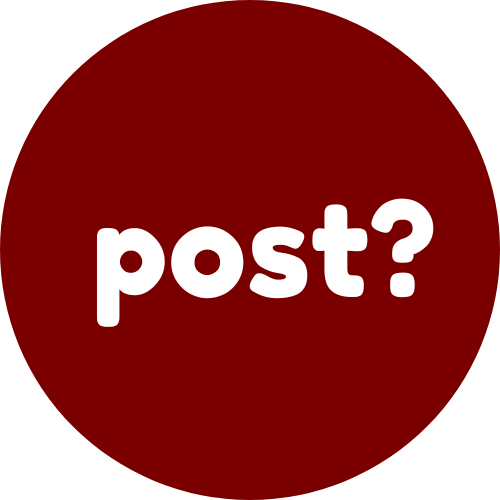
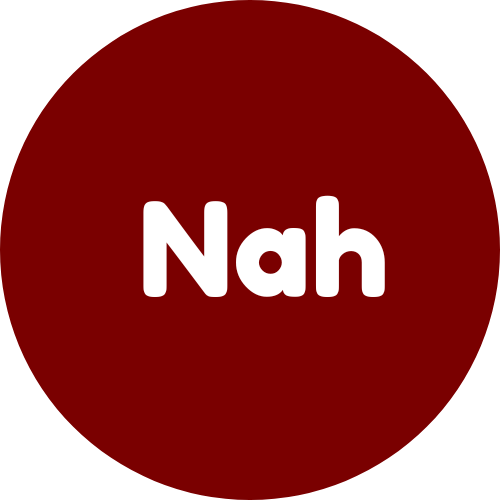
chore: add OpenAI feedback API

Changed region(s): [[0.18, 0.39, 0.87, 0.66]]

diff --git a/src/pages/api/feedback.js b/src/pages/api/feedback.js
@@ -1,0 +1,33 @@
+import OpenAI from "openai";
+
+const openai = new OpenAI({
+  apiKey: process.env.OPENAI_API_KEY,
+});
+
+export default async function handler(req, res) {
+  if (req.method !== "POST") return res.status(405).end();
+
+  try {
+    const { imageUrl, category } = req.body;
+
+    const response = await openai.chat.completions.create({
+      model: "gpt-4o-mini",
+      messages: [
+        {
+          role: "user",
+          content: [
+            { type: "text", text: `Rate this picture for the category: ${category}. Reply with "Post ✅" or "Nah ❌" and one short suggestion.` },
+            { type: "image_url", image_url: imageUrl }
+          ],
+        },
+      ],
+    });
+
+    // Return the assistant's text content
+    const feedback = response.choices?.[0]?.message?.content ?? null;
+    res.status(200).json({ feedback });
+  } catch (err) {
+    console.error(err);
+    res.status(500).json({ error: "AI request failed" });
+  }
+}
